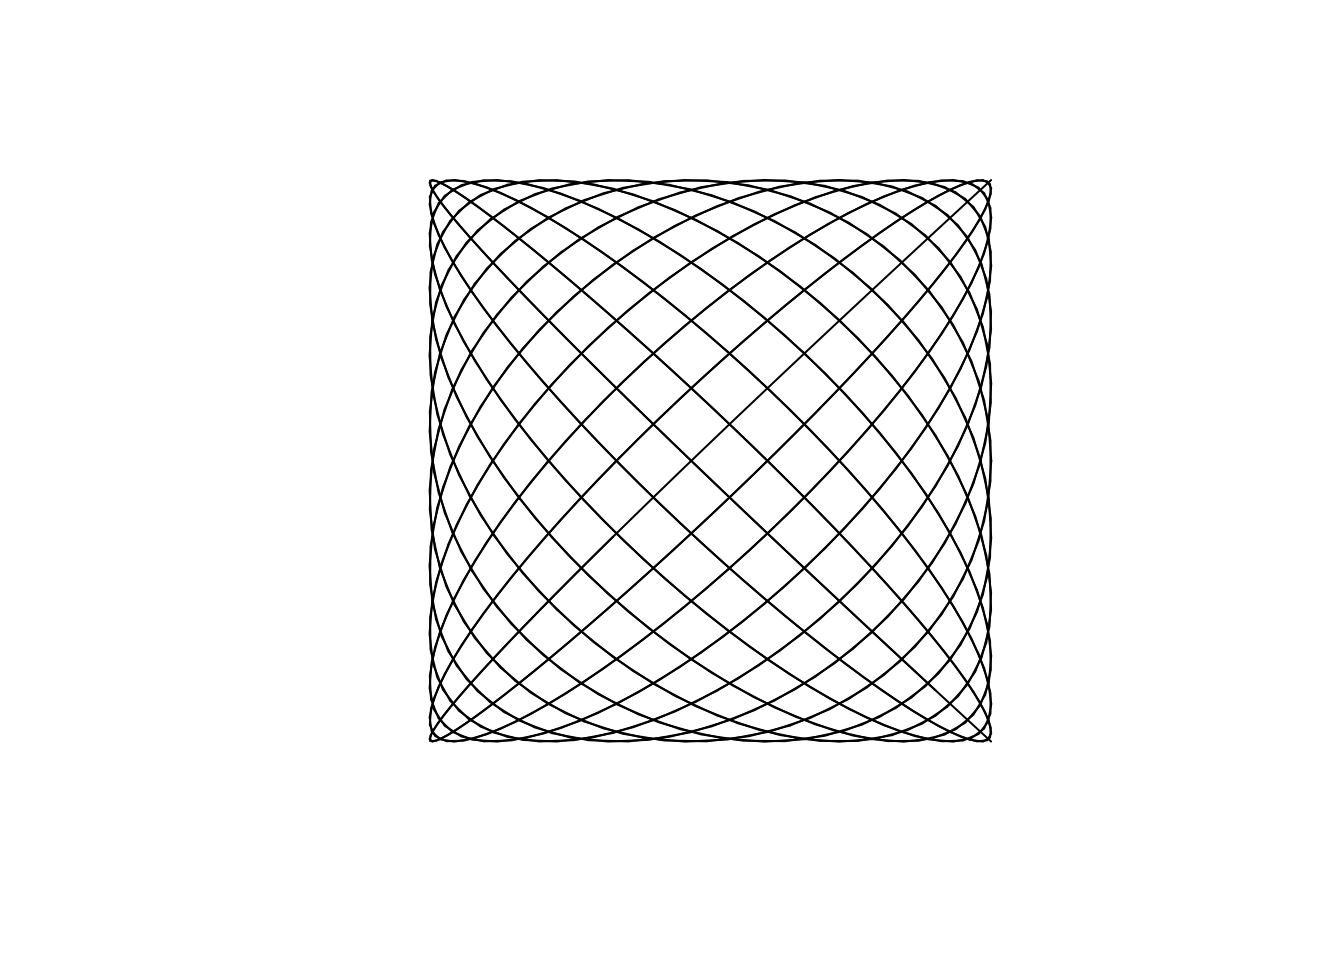
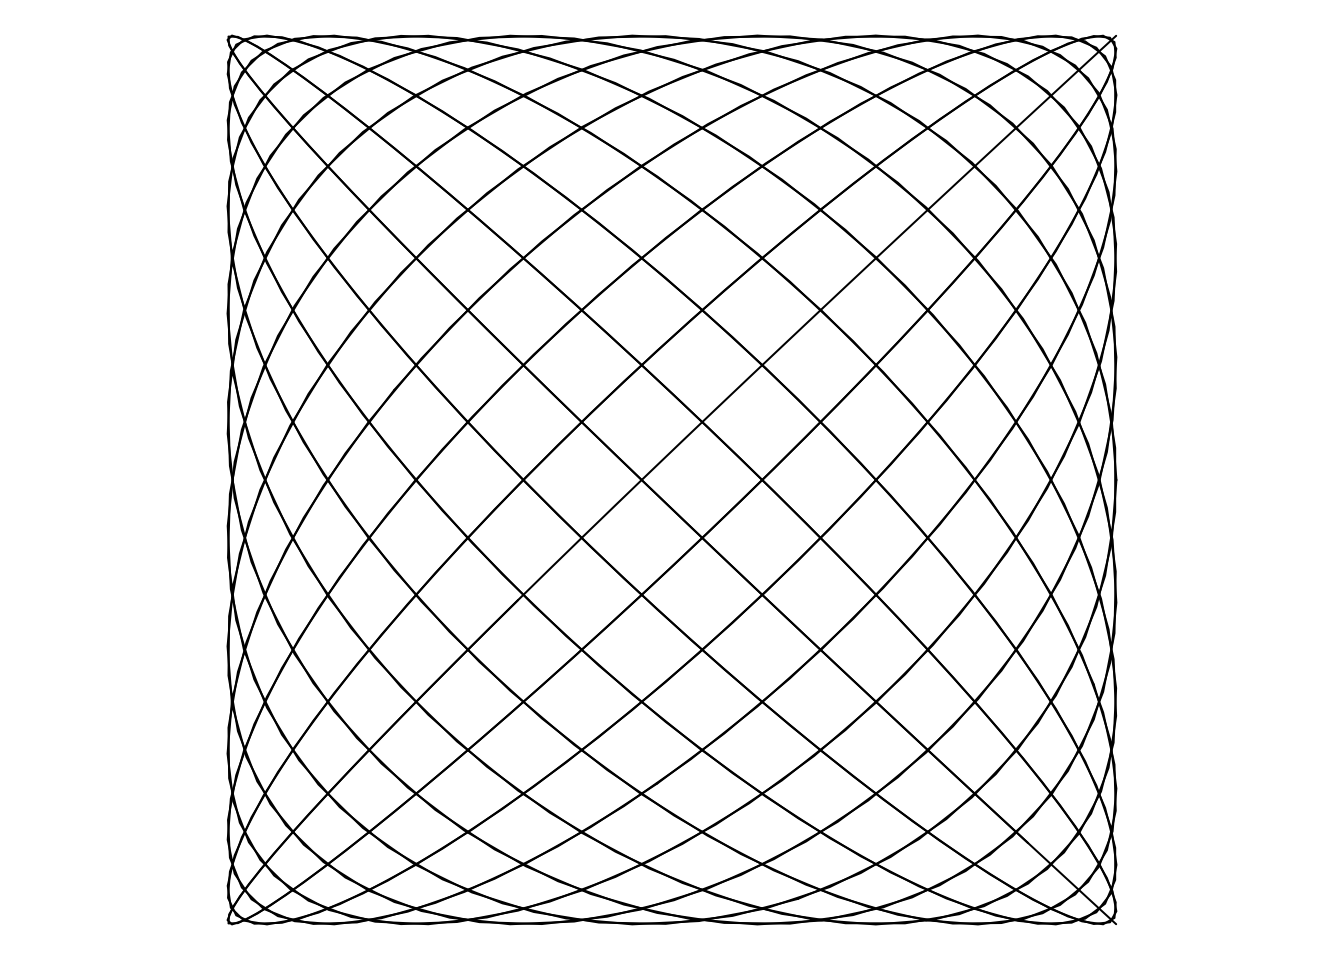
updated functions

diff --git a/content/post/2024-02-25-/index.md b/content/post/2024-02-25-/index.md
@@ -1,5 +1,5 @@
 ---
-title: Some useful functions for Art
+title: Some useful functions for art
 author: DWD
 date: '2024-02-25'
 categories:
@@ -10,12 +10,42 @@ I call this one _harmonica_ as it is based on a harmongraph.
 
 ```r
 thetas = seq(0,1,length=1000)*48*pi
-par(pty='s',ann=F)
-plot(cos(thetas),sin(23*thetas/24),typ='l',axes=FALSE,mai=0*c(1,1,1,1))
+par(pty='s',ann=F,mai=0*c(1,1,1,1))
+plot(cos(thetas),sin(23*thetas/24),typ='l',axes=FALSE)
 ```
 
 <img src="{{< blogdown/postref >}}index_files/figure-html/unnamed-chunk-1-1.png" width="672" />
-This function conveniently tranforms a sin curve to a given top and bottom and control where the sin curve starts zero and the number of waves.  
+This function computes the distance traveled along a curve as a percentage of total distance traveled, which can be used to create a new curve where the points are evenly spaced.  Works for a curve that is either in 2D or 3D space. One can make an evenly spaced vector by using linear interpolation for lookup table is combination of distance traveled and the x (or y vector) and one "looks up" a set of numbers that are evenly spaced on the unit interval.  In the pictures below the "dots" cluster in the corner in the graph on the right as they are not evenly spaced.
+
+```r
+traveled = function(xy){
+  NN = nrow(xy)
+  if (ncol(xy) == 2) {
+  distanceBetween = c(0,sqrt( rowSums((xy[1:(NN-1),1:2]-xy[2:(NN),1:2])^2 ))) } else {
+    distanceBetween = c(0,sqrt( rowSums((xy[1:(NN-1),1:3]-xy[2:(NN),1:3])^2 ))) }
+  traveled = cumsum(distanceBetween)/sum(distanceBetween)
+  return(traveled)}
+
+#Example:
+NNN=500
+thetas = seq(0,1,length=NNN)*12*pi
+xy0 = 1*cbind(sin(thetas),cos(thetas*5/6) )
+travel = traveled(xy0)
+xy = cbind(approx(travel,xy0[,1],seq(0,1,length=NNN),rule=2)[[2]],
+           approx(travel,xy0[,2],seq(0,1,length=NNN),rule=2)[[2]])
+
+par(pty='s',ann=F,mai=0*c(1,1,1,1),mfrow=c(1,2))
+plot(xy,typ='l',axes=F)
+points(xy,pch=20,col=rgb(1,0,0,.5))
+
+plot(xy0,typ='l',axes=F)
+points(xy0,pch=20,col=rgb(1,0,0,.5))
+```
+
+<img src="{{< blogdown/postref >}}index_files/figure-html/unnamed-chunk-2-1.png" width="672" />
+
+
+This function conveniently transforms a sin curve to a given top and bottom and control where the sin curve starts zero and the number of waves.  
 
 
 ```r
@@ -38,5 +68,5 @@ lines(2*xy[,1]/i,xy[,2])
 }
 ```
 
-<img src="{{< blogdown/postref >}}index_files/figure-html/unnamed-chunk-2-1.png" width="672" />
+<img src="{{< blogdown/postref >}}index_files/figure-html/unnamed-chunk-3-1.png" width="672" />
 
